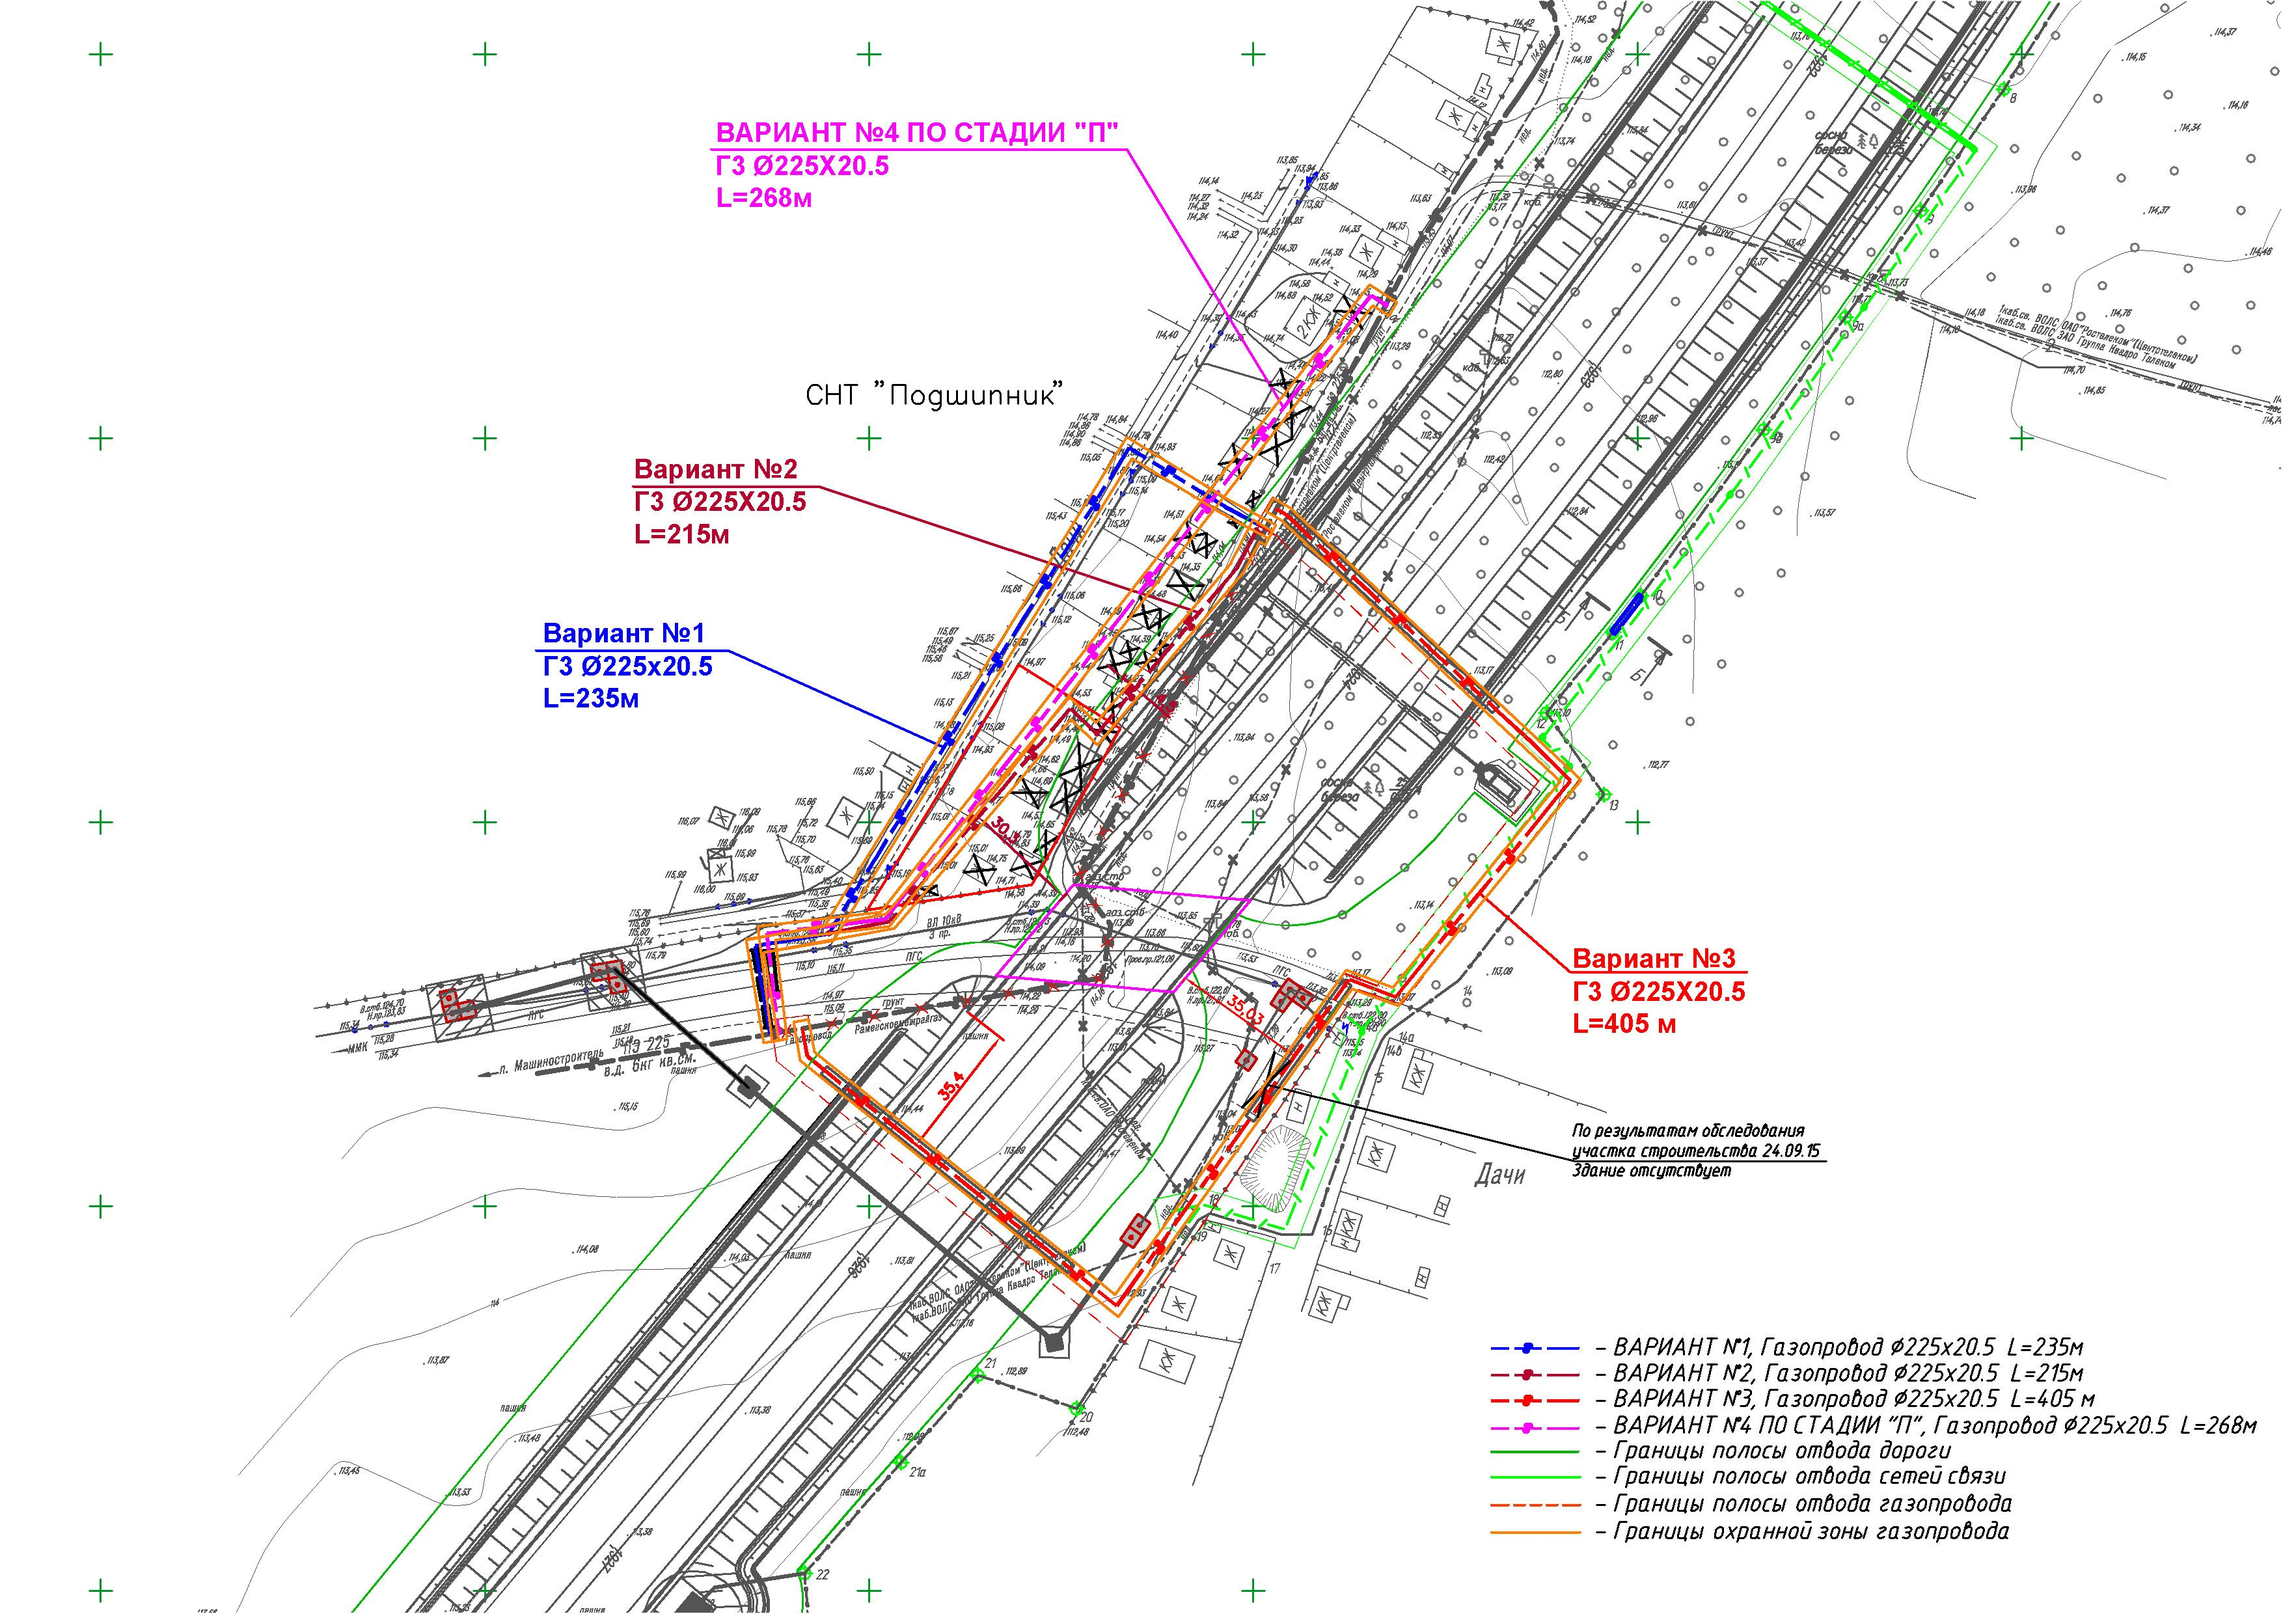
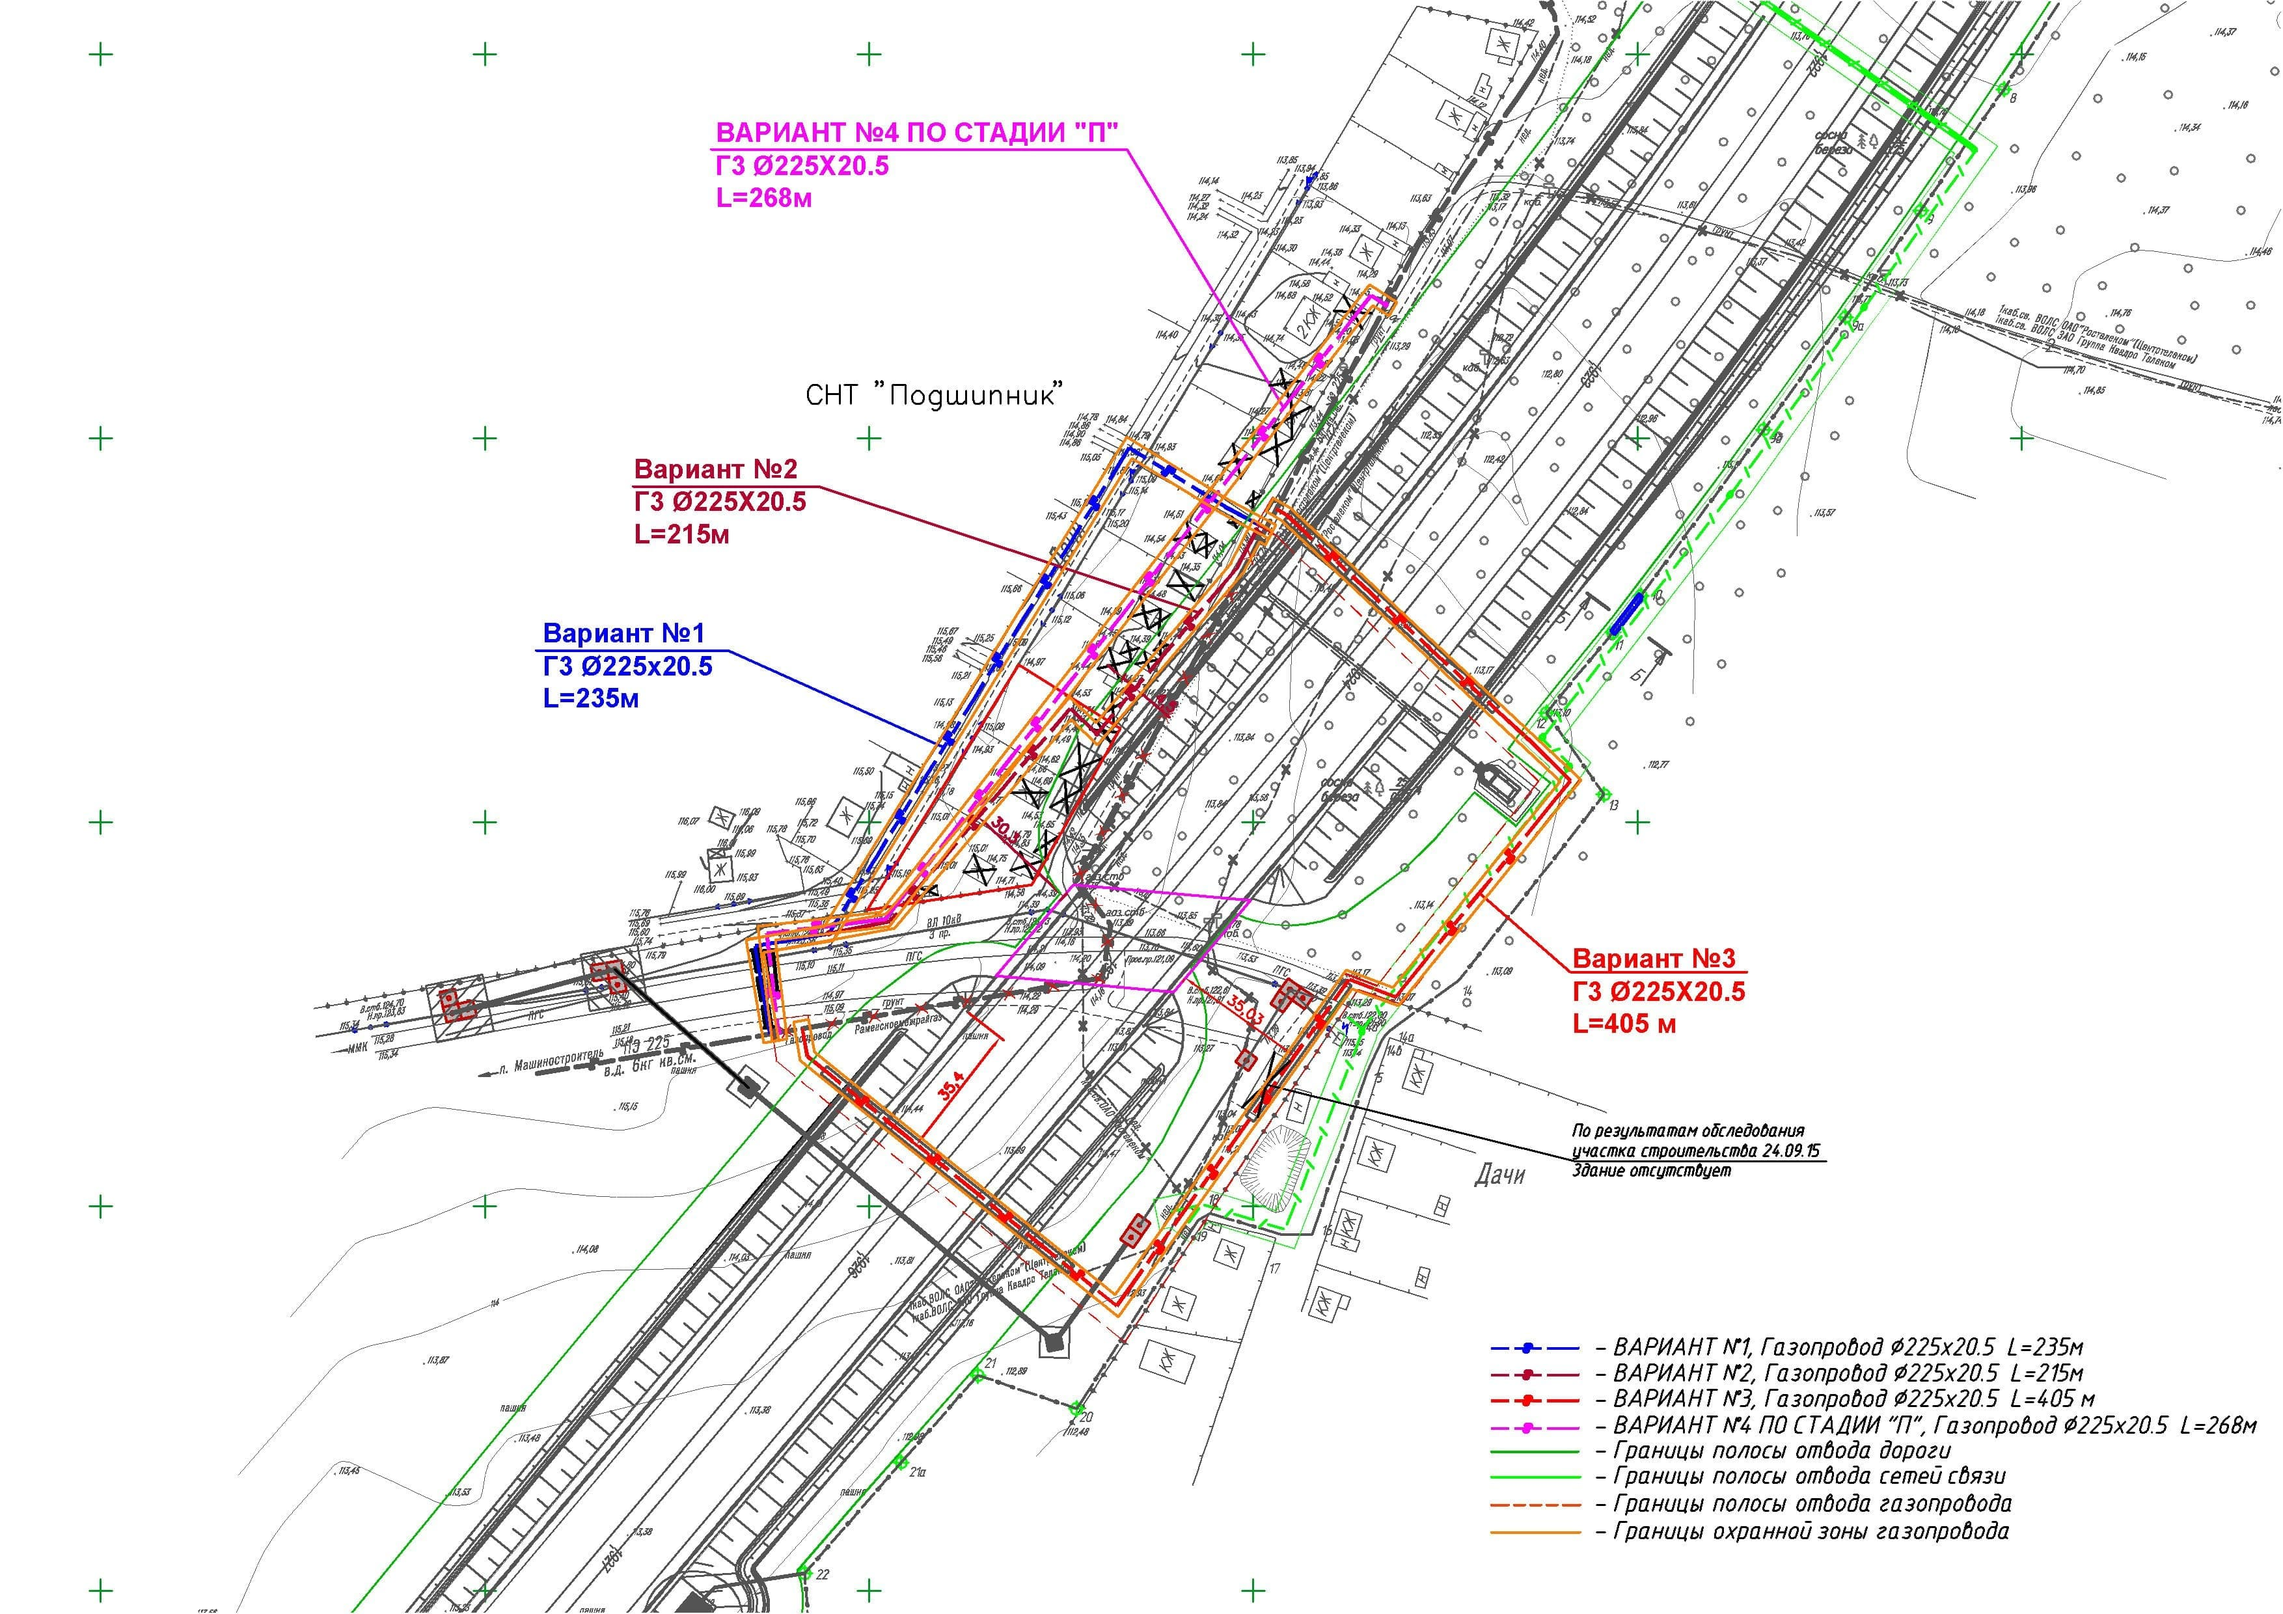
compress img

diff --git a/src/routes/page/proektirovanie-gazoraspredelitelnyh-sistem-i-grp.svelte b/src/routes/page/proektirovanie-gazoraspredelitelnyh-sistem-i-grp.svelte
@@ -476,7 +476,7 @@
                                                 <figure class="image">
                                                     <LazyImage
                                                         class="objects-map__img"
-                                                        src={'/images/map/object-map2.png'}
+                                                        src={'/images/map/object-map2.jpg'}
                                                         alt={'Проект 2'}/>
                                                 </figure>
                                             </Lightbox>
@@ -510,7 +510,7 @@
                                                 <figure class="image">
                                                     <LazyImage
                                                         class="objects-map__img"
-                                                        src={'/images/map/object-map3.png'}
+                                                        src={'/images/map/object-map3.jpg'}
                                                         alt={'Проект 3'}/>
                                                 </figure>
                                             </Lightbox>
